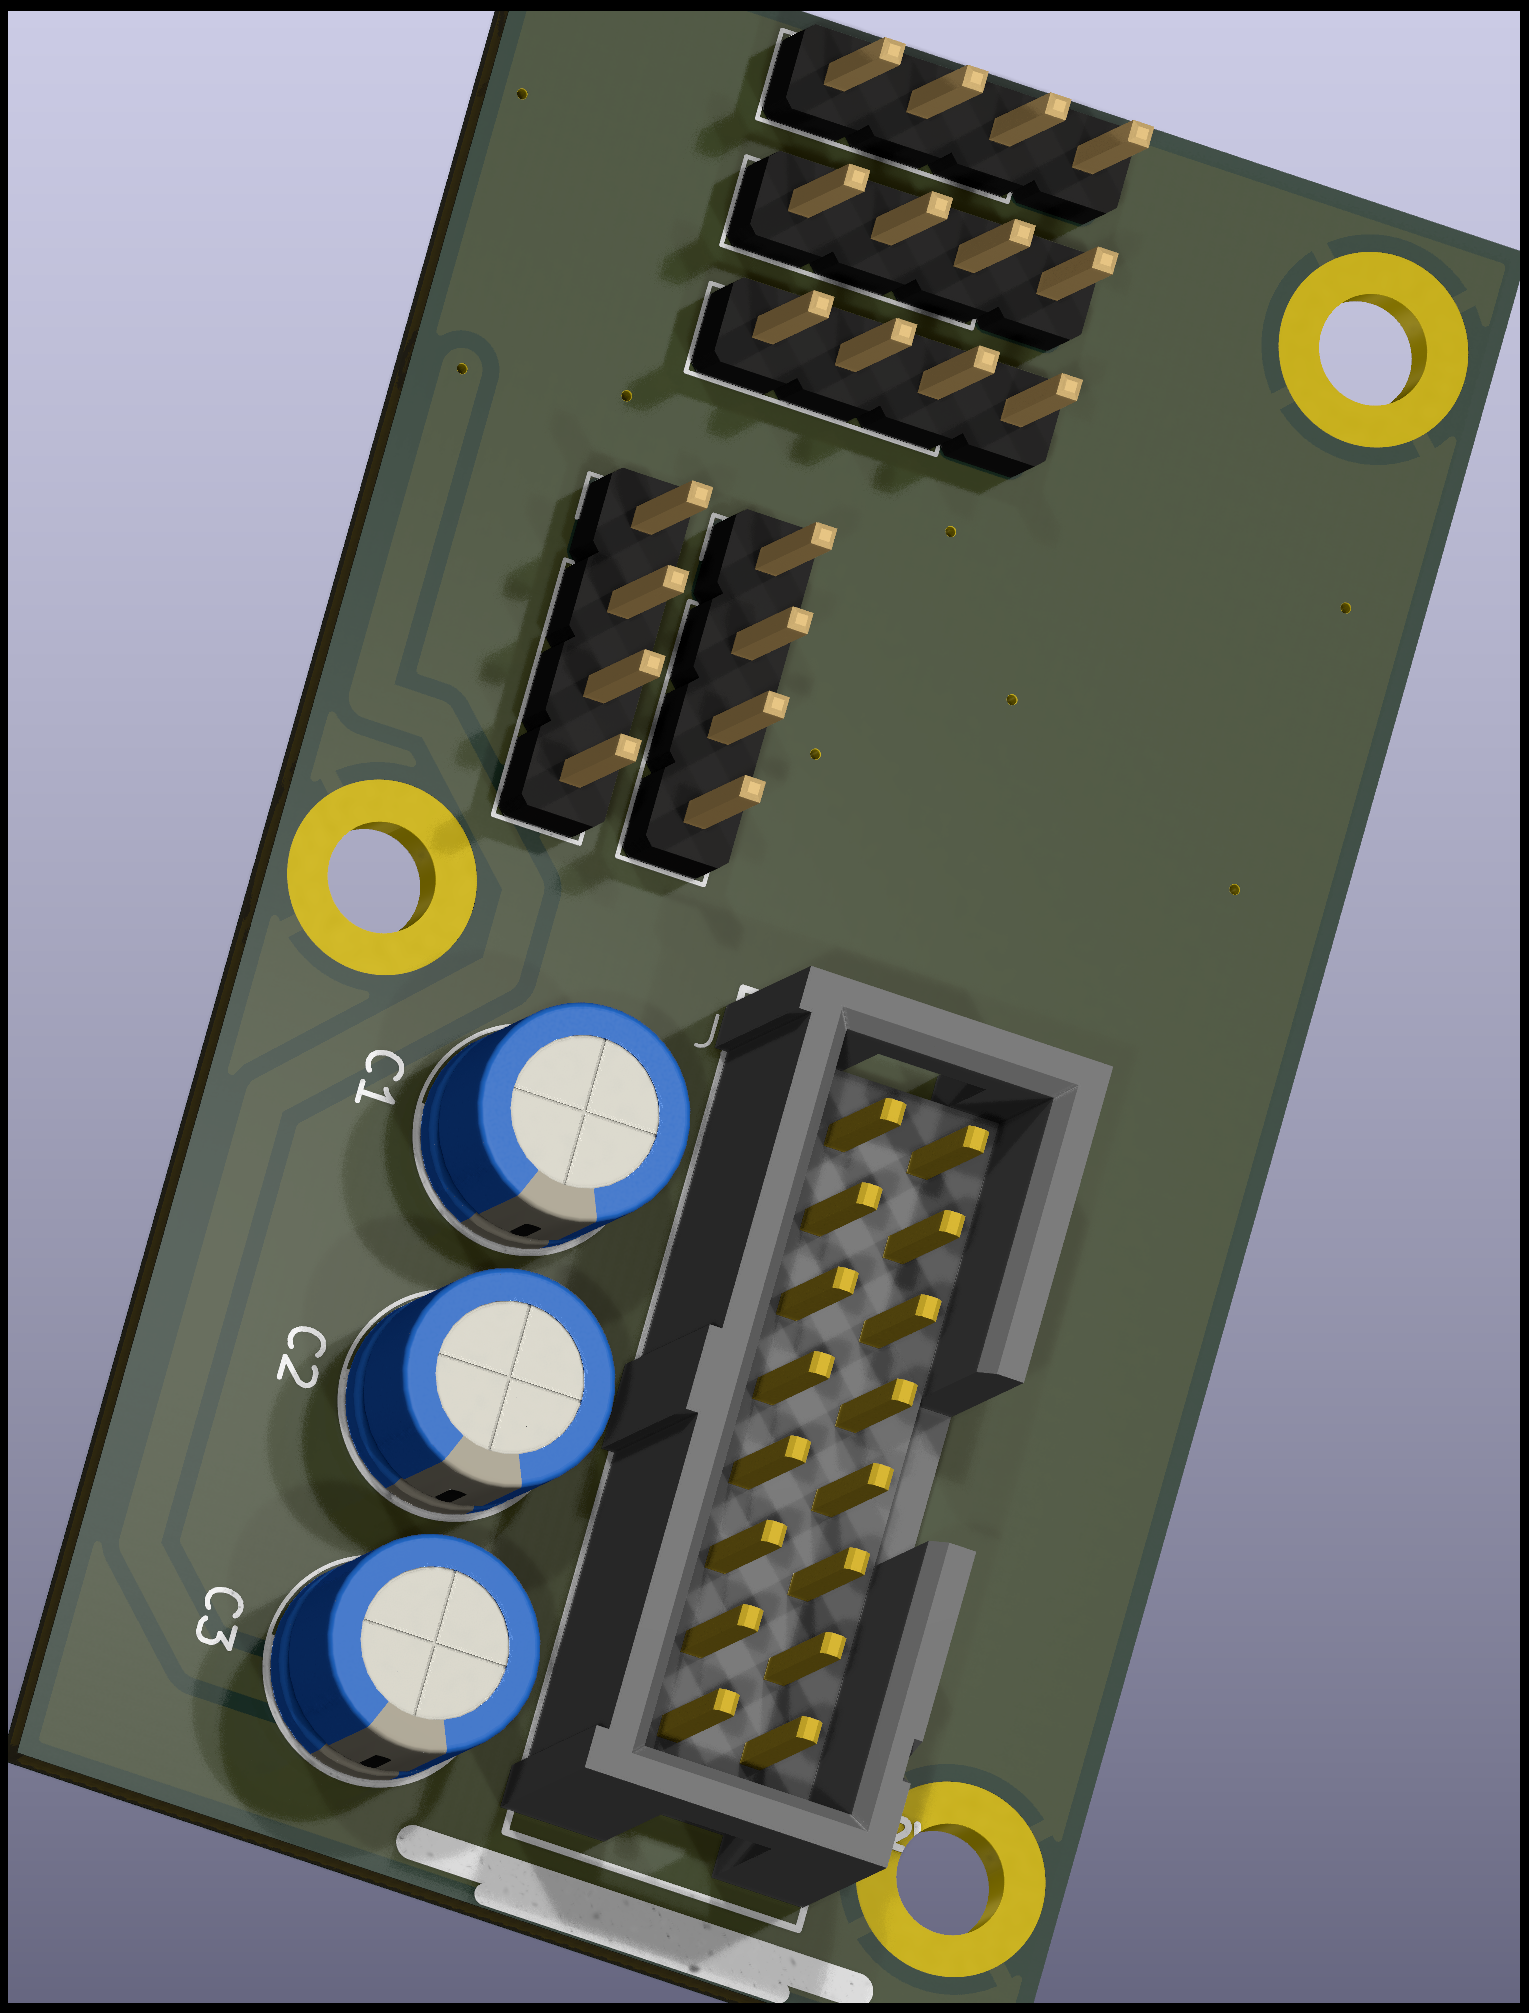
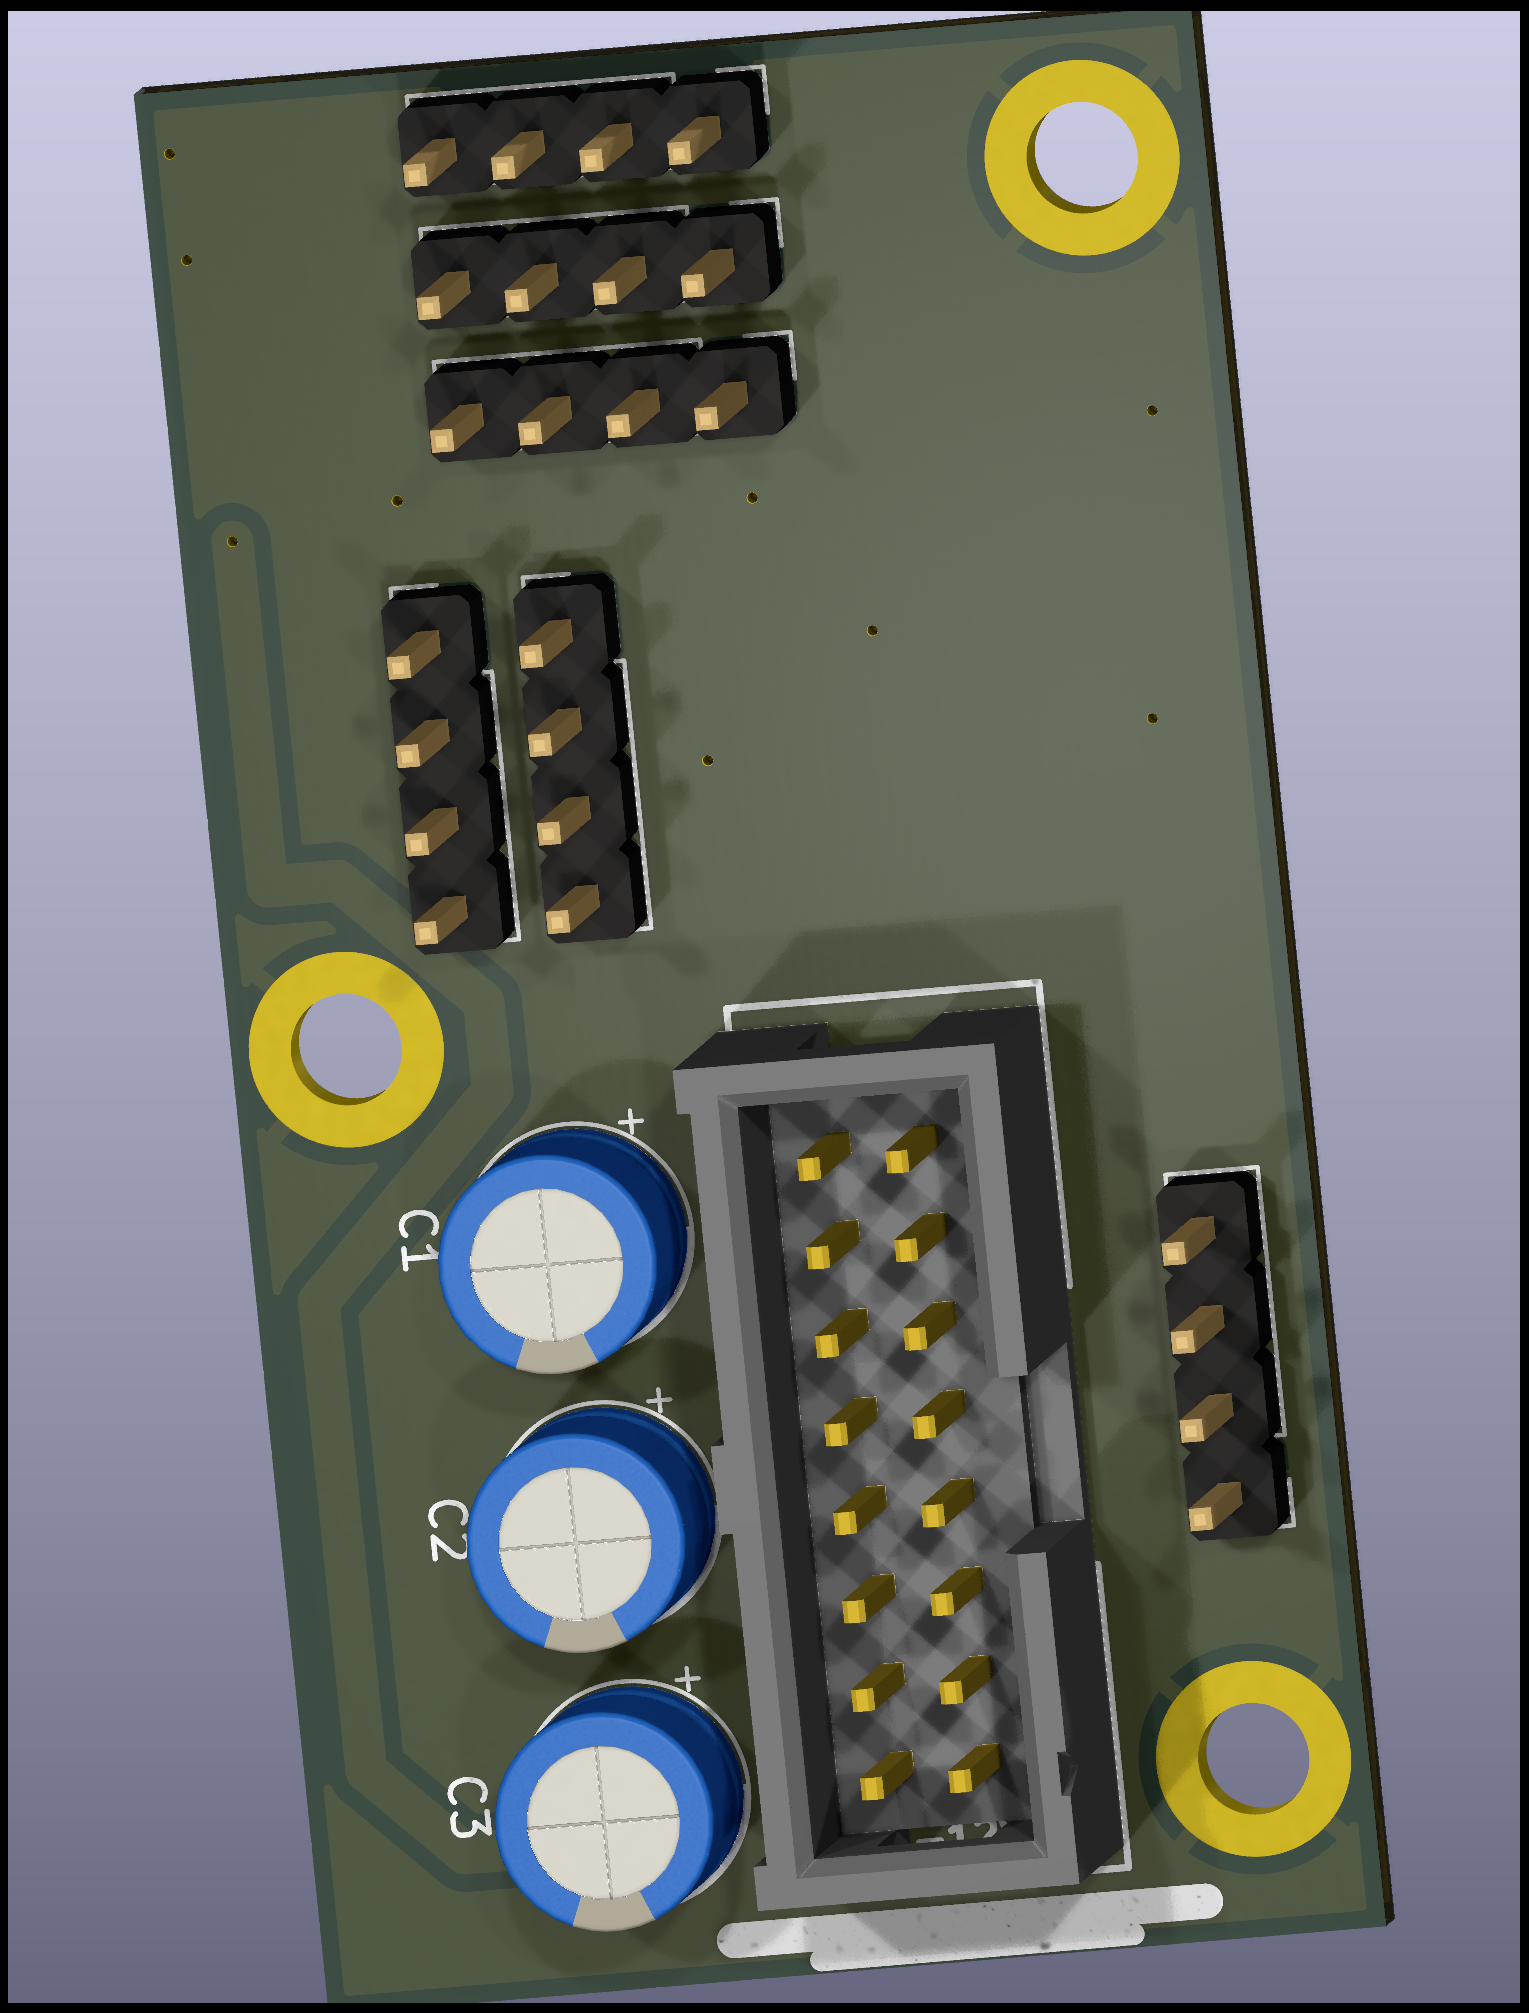
more on power

diff --git a/Duophonic/Power.md b/Duophonic/Power.md
@@ -75,7 +75,7 @@ Thus the 5V from Eurorack can, at max, be called on to provide 500mA.
 Eurorack power connector, usual 22μF smoothing caps (68μF for +5V due to large power draw).
 
 Top plane mostly gnd (for low impedance and also cooling) with traces for ±9V5 and for +5V5 outputs;
-bottom plane gnd (again for cooling), well stitched to top, with traces for ±12V inputs.
+bottom plane gnd (again for cooling), well stitched to top, with traces for ±12V inputs. Also needs a low current GND,+12V output for the gate and trigger circuits; and a high current (500mA) GND,+5V output to drive the Teensy, the devices powered by Teensy 3V3, and the USB Host power output. Terminal block would have been great but is sadly too big, so I went with a 4-pin connector (two GND, two +5V).
 
 Stacked behind the perfdac-jack and pots board, and add two standoffs after the pots to make it more stable.
 See [Power, Jacks and Trimmers](power-jacks-trimmers.md)
@@ -107,7 +107,6 @@ is required.
 stability range. The minimum ESR needed is set by the
 amount of bypass capacitance used, while maximum
 ESR is 3Ω.
-
 > (source: DEMO MANUAL DC368A)
 
 10μF input cap, 10nF noise bypass cap, 6μ8F to 10μF output cap (see Fig 3. Stability and discussion of ceramic dielectrics: go for X7R).
@@ -209,8 +208,7 @@ At 135C/w, 23.5C above ambient.
 
 ## Work Plan
 
-Measure current draw of perf DAC board (5V5 regulator needs to power 2) before ordering PSU parts, to be sure the SMD 5V5 will be suitable. Might need a 3-pin regulator.
-
-Check min spacing for cables to plug into the power headers!
-
-Check size and spacing of standoff holes, with jacks board and with panel.
+- [ ] Measure current draw of perf DAC board (5V5 regulator needs to power 2) before ordering PSU parts, to be sure the SMD 5V5 will be suitable. Might need a 3-pin regulator.
+- [ ] Check min spacing for cables to plug into the power headers!
+- [ ] Check size and spacing of standoff holes, with jacks board and with panel.
+- [ ] More vias to connect front and back ground planes

diff --git a/Duophonic/pitch-dac.md b/Duophonic/pitch-dac.md
@@ -40,6 +40,8 @@ To isolate from digital 0V noise, consider optical isolator. ISO724x high speed 
 
 [10k pullup on SPI CS line](https://www.pjrc.com/better-spi-bus-design-in-3-steps/).
 
+Use series 100R on MOSI and CLK to reduce reflections and ringing; monitor waveform on a scope with 10x probe.
+
 ## Initial accuracy
 
 1LSB is 10V / 2^18 = 38μV. At 1V/Oct, 12 tones per octave, 100 cents per tone, 1 Cent is 833μV so 1 LSB is about 1/20 cent.

diff --git a/Duophonic/Gate-LED.md b/Duophonic/Gate-LED.md
@@ -46,7 +46,7 @@ See also [a known bad Gate in the original Arturia Beatstep](https://synthnerd.w
 
 Gate is +10V. Test droop into low loads like 10k.
 
-Trigger is +10V for 10ms. Maybe 9V with a small 12V to 9V regulator?
+Trigger is +10V for 10ms. Maybe 9V with a small 12V to 9V regulator? Thus, needs a +12V from the power board.
 
 ## Boards
 
